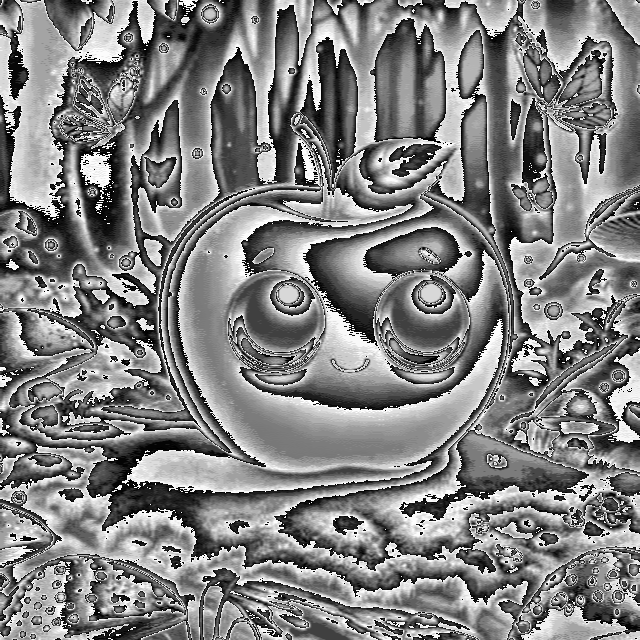
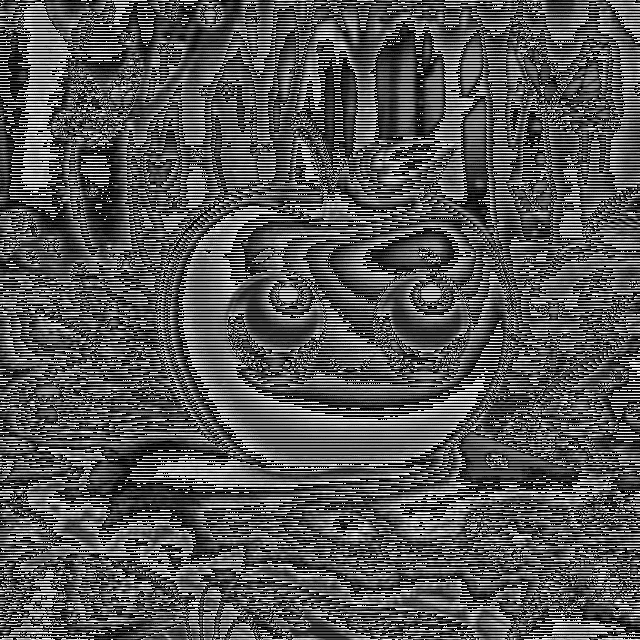
2D ker, readme images

diff --git a/conv.py b/conv.py
@@ -39,7 +39,7 @@ def conv_arr(inp: np.ndarray, ker: np.ndarray) -> np.ndarray:
 
 def main():
 
-    ker = np.array([1, 2, 1])
+    ker = np.array([[1, 2, 1], [0, 0, 0], [2, 1, 2]])
     print("ker =", ker)
 
     img = Image.open('input.png').convert('L')
@@ -49,7 +49,7 @@ def main():
     h, w = arr.shape
 
     for y in range(h):
-        new_arr[y] = conv_arr(arr[y], ker)
+        new_arr[y] = conv_arr(arr[y], ker[y % 3])
 
     new_img = Image.fromarray(new_arr)
     new_img.show()

diff --git a/README.md b/README.md
@@ -6,6 +6,13 @@
 
 - [ ] 2D array convolution
 
+<table>
+<tr>
+<td><img src="input.png" width="100%"></td>
+<td><img src="output.png" width="100%"></td>
+</tr>
+</table>
+
 ### How to run:
 
 ```bash
